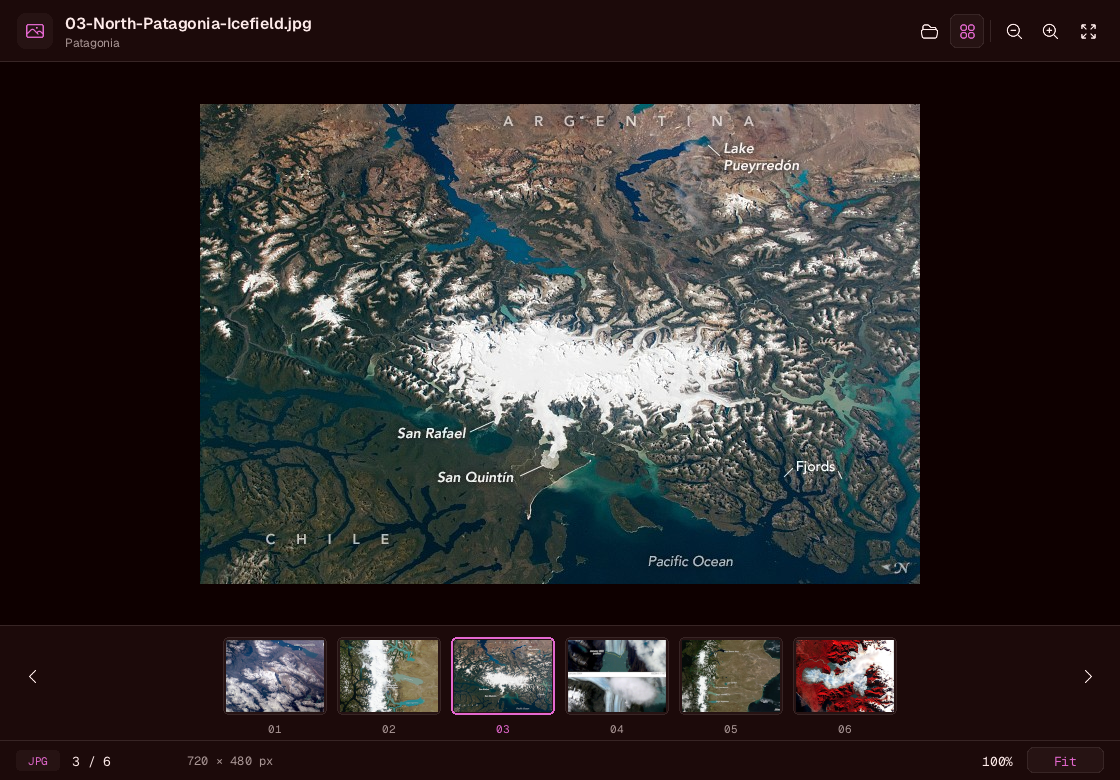
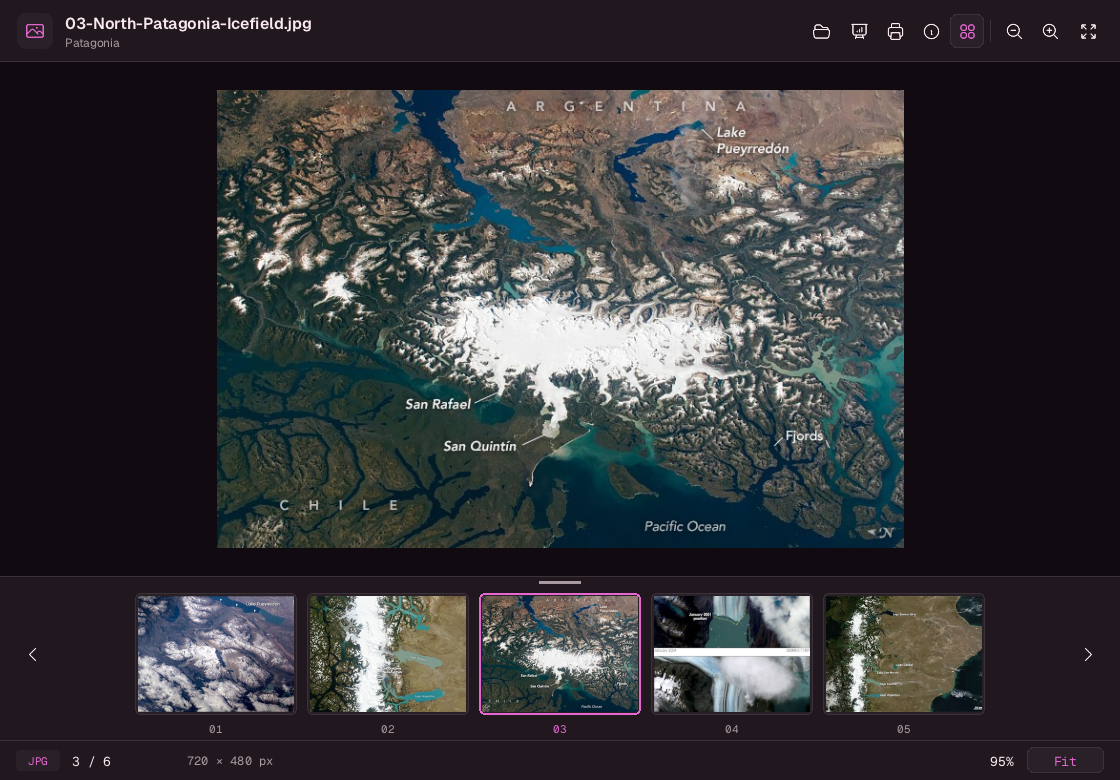
Document the new controls and show gallery, inspector and print

diff --git a/README.md b/README.md
@@ -2,9 +2,9 @@
 
 A small Linux/X11 viewer for images and PDFs, built with [CUI](https://github.com/mattmezza/cui). It follows Xresources, ships with Geist and Geist Mono, and exposes a local socket for scripts.
 
-![View showing an image and the folder’s filmstrip](assets/screenshots/gallery.png)
+![View showing a photo and the resized gallery filmstrip](assets/screenshots/gallery.png)
 
-![View showing PDF thumbnails and a highlighted search result](assets/screenshots/pdf.png)
+![View showing a PDF with enlarged page thumbnails and a docked file info panel](assets/screenshots/pdf.png)
 
 ## Install
 
@@ -18,7 +18,7 @@ Pass `--default` to register View as the default handler for PDFs and supported 
 curl -fsSL https://raw.githubusercontent.com/mattmezza/view/main/install.sh | sh -s -- --default
 ```
 
-Run the installer again to upgrade. It verifies the release checksum and installs into `~/.local/bin` and `${XDG_DATA_HOME:-~/.local/share}`. Set `VIEW_BIN_DIR` to change the binary location or `VIEW_VERSION=v0.1.1` to pin a release. Restart View after upgrading a running instance. Release binaries for x86-64 and ARM64 are statically linked. View’s update badge uses `curl` to check GitHub in the background.
+Run the installer again to upgrade. It verifies the release checksum and installs into `~/.local/bin` and `${XDG_DATA_HOME:-~/.local/share}`. Set `VIEW_BIN_DIR` to change the binary location or `VIEW_VERSION=v0.2.0` to pin a release. Restart View after upgrading a running instance. Release binaries for x86-64 and ARM64 are statically linked. View’s update badge uses `curl` to check GitHub in the background.
 
 ## Use
 
@@ -31,14 +31,27 @@ Open a file from the file manager, drop it onto the window, or run `view FILE`. 
 | **↑ / ↓**, **Page Up / Page Down** | Scroll the PDF |
 | **F**, **F11**, **Esc** | Toggle or leave fullscreen |
 | **G**, **T** | Toggle the gallery or PDF thumbnails |
+| **Ctrl+I** | Toggle the docked file info panel |
+| **Ctrl+P** | Open print settings |
+| **F5** | Start or leave presentation mode |
 | **+ / −**, **0**, **1** | Zoom, fit, or actual size |
 | **Ctrl+F**, **N / Shift+N** | Find in the PDF and move between matches |
 | **Ctrl+C** | Copy selected PDF text |
 | **Ctrl+R**, **F1** | Reload settings or show shortcuts |
 
-Drag to pan an image. In a PDF, drag across text to select it and use the middle mouse button to pan. Ctrl+wheel zooms and Shift+wheel pans horizontally. The zoom mode button switches PDF fit and fit-to-width.
+Hold **Ctrl** over the canvas for the zoom cursor and use the wheel to zoom. Drag an image to pan it with the hand cursor. In a PDF, drag across text to select it, or middle-drag to pan. Shift+wheel pans horizontally. The zoom mode button switches PDF fit and fit-to-width.
+
+Drag the top edge of the gallery or the right edge of the page thumbnail panel to resize the thumbnails. **F5** shows one page or image at a time. Left-click, Space, or Right advances. Right-click or Left goes back. **Esc** returns to the viewer.
+
+The file info panel shows dimensions, size, modification time, EXIF fields such as lens, shutter speed and GPS, and PDF properties. Scroll to see more and click a row to copy its value. With [ExifTool](https://exiftool.org/) installed, the panel also reads additional metadata such as XMP and IPTC.
 
 View reads PDF, JPEG, PNG, GIF, WebP, AVIF, TIFF, SVG, BMP, TGA, ICO, QOI, PBM, PGM, PPM, PSD composites, and Radiance HDR. Animated images and multipage TIFFs display their first frame or page. SVG uses NanoSVG’s path and shape rendering. HEIC and camera RAW are outside the supported format list.
+
+## Print
+
+Use the printer icon or **Ctrl+P**. Choose the current image or page, the whole gallery or PDF, or a range. Pick the paper, orientation, layout, order, and scale to put up to nine items on a sheet. The preview shows the first sheet. You can also choose black and white, duplex, and the number of copies. Printing uses your [CUPS](https://openprinting.github.io/cups/doc/options.html) queues and the `lp` command.
+
+![View’s print dialog showing four photos on a landscape sheet](assets/screenshots/print.png)
 
 ## Script it
 
@@ -49,20 +62,22 @@ view find 'cash flow'
 view find-next
 view zoom 125
 view fullscreen on
+view info on
+view present on
 view status
 ```
 
-`view open PATH` starts the viewer if needed and returns after the file is accepted or a load error is reported. Other commands target the existing window on the current `DISPLAY`. `view --help` lists the commands. `status` returns JSON with the absolute path, type, one-based index and count, zoom percentage, pane visibility settings, and search state. PDF search runs incrementally. Poll `searching` for completion.
+`view open PATH` starts the viewer if needed and returns after the file is accepted or a load error is reported. Other commands target the existing window on the current `DISPLAY`. `view print` opens the print dialog. `view --help` lists the commands. `status` returns JSON with the absolute path, type, one-based index and count, zoom percentage, panel sizes and visibility, presentation mode, and search state. PDF search runs incrementally. Poll `searching` for completion.
 
 `view --socket` prints the path to the private Unix `SOCK_SEQPACKET` socket. Send one packet containing NUL-terminated UTF-8 arguments, for example `status\0`. The reply is one packet beginning with ASCII `0` for success or `1` for failure, followed by the optional result or error. Packets are limited to 16 KiB. The server checks the peer UID.
 
 ## Configure
 
-Copy [view.conf](view.conf) to `${XDG_CONFIG_HOME:-~/.config}/view/config` and reload with Ctrl+R. It lists the font, color, layout, zoom, gallery, thumbnail, update, and key binding settings. Colors use `view.*` Xresources with the wildcard background, foreground, and color4 as fallbacks. `color.*` config entries override Xresources. View follows palette changes from `xrdb` while running.
+Copy the sample to `${XDG_CONFIG_HOME:-~/.config}/view/config` and reload with Ctrl+R. Set `thumb_size` and `sidebar_width` for the starting thumbnail sizes. Dragging changes them for the current session. The sample also lists the font, color, layout, info panel, zoom, update, and key binding settings. Colors use `view.*` Xresources with the wildcard background, foreground, and color4 as fallbacks. `color.*` config entries override Xresources. View follows palette changes from `xrdb` while running. [Sample configuration](view.conf)
 
 ## Build and install from source
 
-Install a C compiler, Make, Python 3, pkg-config, curl, LLVM’s linker (LLD 22 or later), and the development packages for X11, libwebp, libtiff, and libavif. The build fetches a checksum-pinned PDFium archive.
+Install a C compiler, Make, Python 3, pkg-config, curl, LLVM’s linker (LLD 22 or later), and the development packages for X11, libwebp, libtiff, libavif, libexif, libjpeg, and zlib. The build fetches a checksum-pinned PDFium archive.
 
 ```sh
 make -j
@@ -74,7 +89,7 @@ The source installation uses `/usr/local` by default and installs the executable
 The [release workflow](.github/workflows/release.yml) lists the Ubuntu static build dependencies and runs the X11 smoke test under Xvfb. A release from the current commit on `origin/main` starts that workflow.
 
 ```sh
-make release name=v0.1.0
+make release name=v0.2.0
 ```
 
 Each [release](https://github.com/mattmezza/view/releases) gets its binaries, SHA-256 checksums, and third-party notices. The Makefile and release workflow provide the build and relinking instructions. System libraries are sourced from Ubuntu’s [package archive](https://archive.ubuntu.com/ubuntu/pool/).
